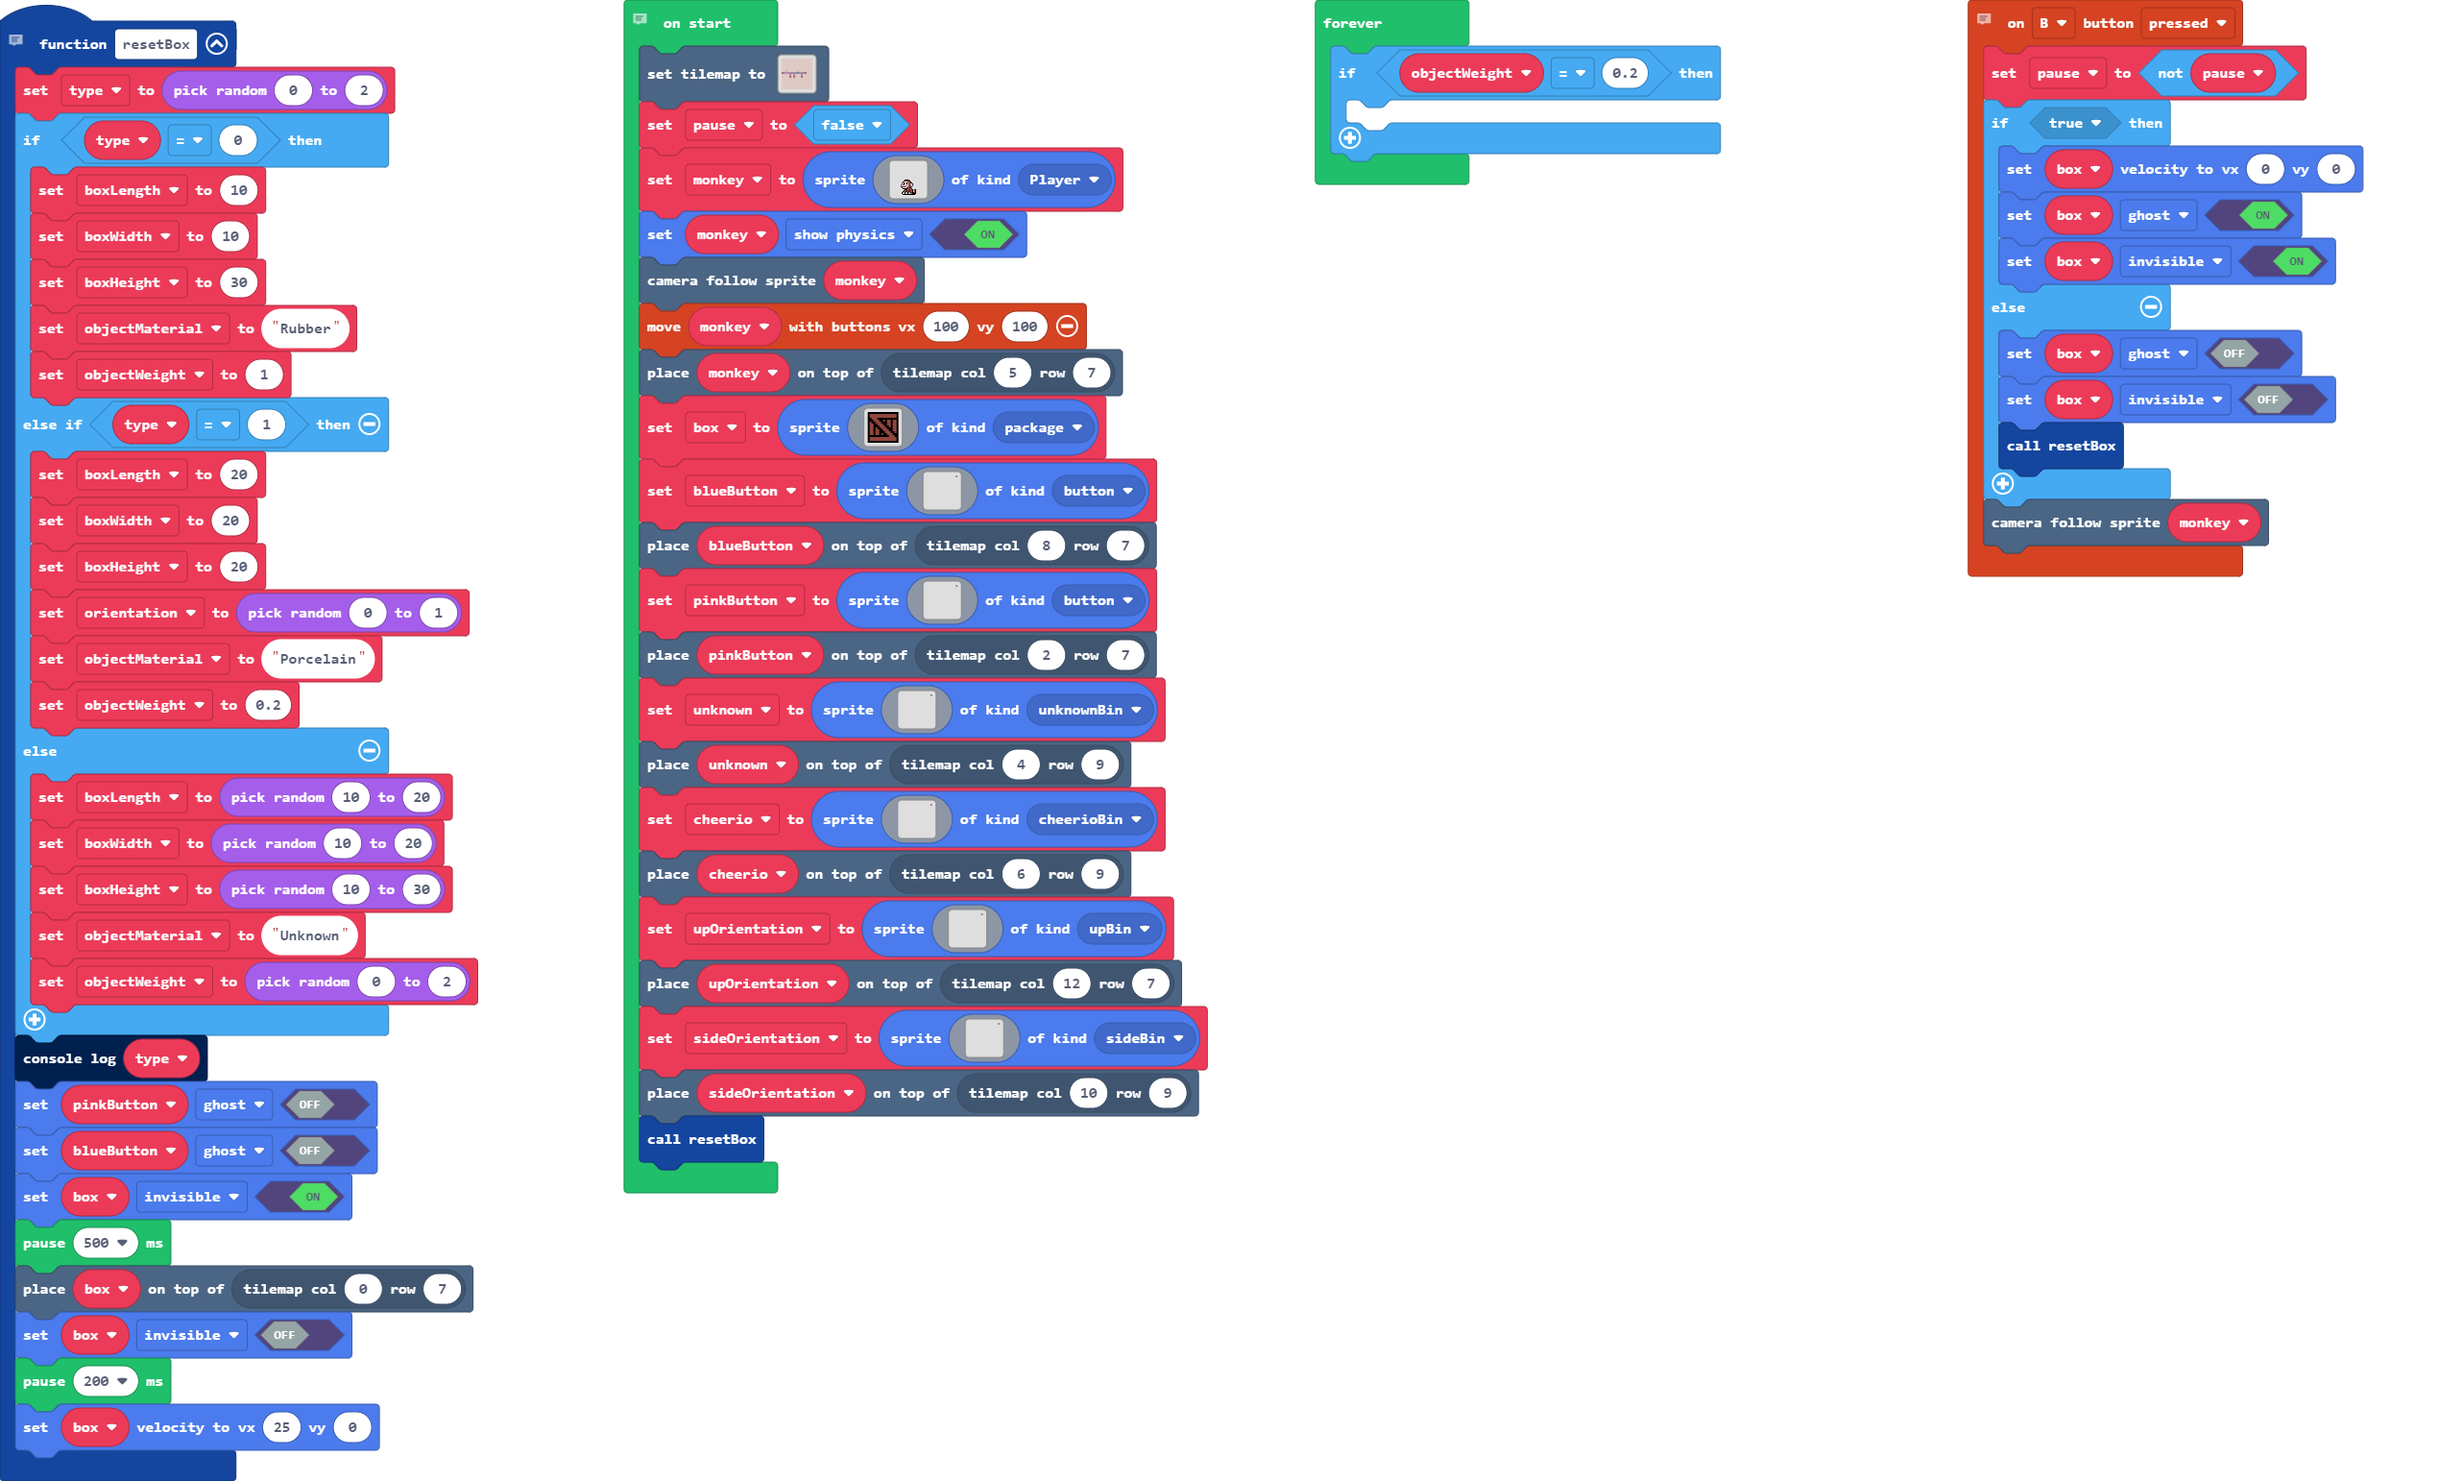
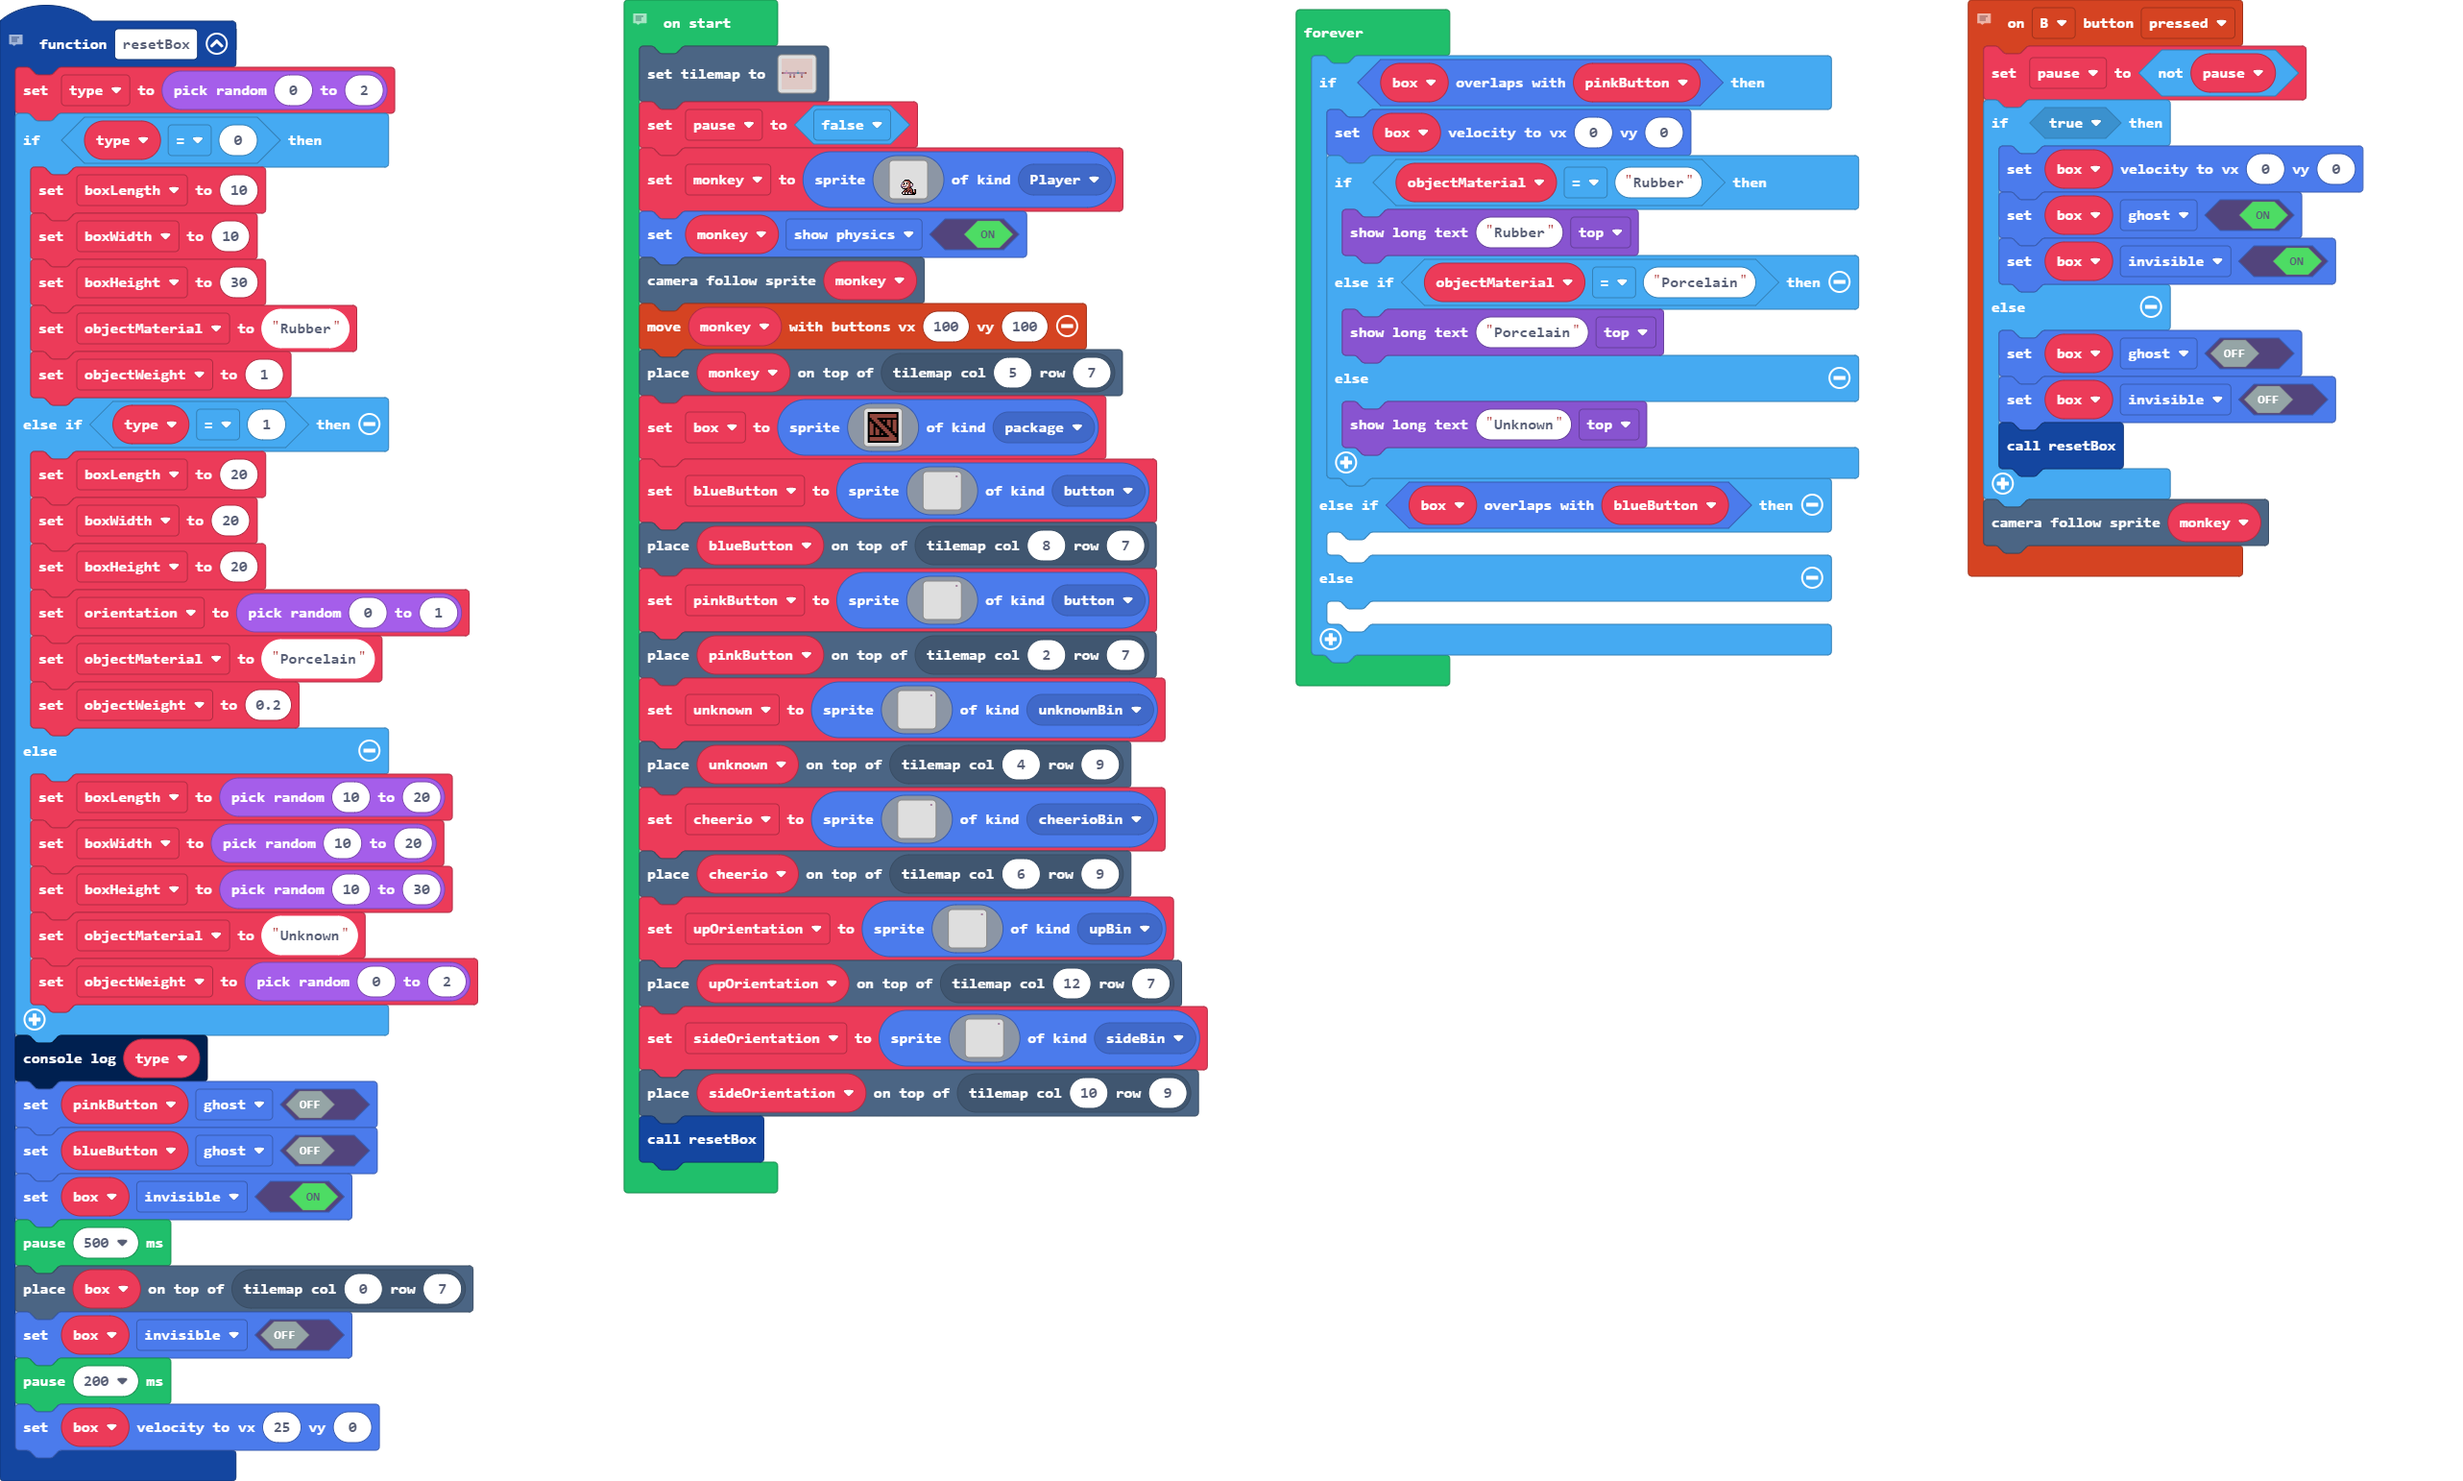
Pink Button Conditions

Changed region(s): [[0.499, 0.0, 0.7797, 0.4669]]

diff --git a/tilemap.g.ts b/tilemap.g.ts
@@ -27,6 +27,60 @@ namespace myTiles {
 . . . . . . . . . . . . . . . . 
 . . . . . . . . . . . . . . . . 
 `, [myTiles.transparency16,sprites.vehicle.roadHorizontal,sprites.vehicle.roadVertical,sprites.dungeon.chestClosed,sprites.dungeon.floorLight2,sprites.dungeon.buttonPink,sprites.dungeon.buttonTeal,myTiles.tile1,sprites.dungeon.chestOpen,myTiles.tile2], TileScale.Sixteen)
+            case "level_0": return tiles.createTilemap(hex`1000100004040404040404040404040404040404040404040404040404040404040404040404040404040404040404040404040404040404040404040404040404040404040404040404040404040404040404040404040404040404040404040404040404040704040404040704040404040404080105010901090106010901030404040404040402040204040402040404040404040404030403040404030404040404040404040404040404040404040404040404040404040404040404040404040404040404040404040404040404040404040404040404040404040404040404040404040404040404040404040404040404040404040404040404040404040404`, img`
+. . . . . . . . . . . . . . . . 
+. . . . . . . . . . . . . . . . 
+. . . . . . . . . . . . . . . . 
+. . . . . . . . . . . . . . . . 
+. . . . . . . . . . . . . . . . 
+. . . . . . . . . . . . . . . . 
+. . . . . . . . . . . . . . . . 
+. . . . . . . . . . . . . . . . 
+. . . . . . . . . . . . . . . . 
+. . . . . . . . . . . . . . . . 
+. . . . . . . . . . . . . . . . 
+. . . . . . . . . . . . . . . . 
+. . . . . . . . . . . . . . . . 
+. . . . . . . . . . . . . . . . 
+. . . . . . . . . . . . . . . . 
+. . . . . . . . . . . . . . . . 
+`, [myTiles.transparency16,sprites.vehicle.roadHorizontal,sprites.vehicle.roadVertical,sprites.dungeon.chestClosed,sprites.dungeon.floorLight2,sprites.dungeon.buttonPink,sprites.dungeon.buttonTeal,myTiles.tile1,sprites.dungeon.chestOpen,myTiles.tile2], TileScale.Sixteen)
+            case "level_1": return tiles.createTilemap(hex`1000100004040404040404040404040404040404040404040404040404040404040404040404040404040404040404040404040404040404040404040404040404040404040404040404040404040404040404040404040404040404040404040404040404040704040404040704040404040404080105010901090106010901030404040404040402040204040402040404040404040404030403040404030404040404040404040404040404040404040404040404040404040404040404040404040404040404040404040404040404040404040404040404040404040404040404040404040404040404040404040404040404040404040404040404040404040404`, img`
+. . . . . . . . . . . . . . . . 
+. . . . . . . . . . . . . . . . 
+. . . . . . . . . . . . . . . . 
+. . . . . . . . . . . . . . . . 
+. . . . . . . . . . . . . . . . 
+. . . . . . . . . . . . . . . . 
+. . . . . . . . . . . . . . . . 
+. . . . . . . . . . . . . . . . 
+. . . . . . . . . . . . . . . . 
+. . . . . . . . . . . . . . . . 
+. . . . . . . . . . . . . . . . 
+. . . . . . . . . . . . . . . . 
+. . . . . . . . . . . . . . . . 
+. . . . . . . . . . . . . . . . 
+. . . . . . . . . . . . . . . . 
+. . . . . . . . . . . . . . . . 
+`, [myTiles.transparency16,sprites.vehicle.roadHorizontal,sprites.vehicle.roadVertical,sprites.dungeon.chestClosed,sprites.dungeon.floorLight2,sprites.dungeon.buttonPink,sprites.dungeon.buttonTeal,myTiles.tile1,sprites.dungeon.chestOpen,myTiles.tile2], TileScale.Sixteen)
+            case "level_2": return tiles.createTilemap(hex`1000100000000000000000000000000000000000000000000000000000000000000000000000000000000000000000000000000000000000000000000000000000000000000000000000000000000000000000000000000000000000000000000000000000000000000000000000000000000000000000000000000000000000000000000000000000000000000000000000000000000000000000000000000000000000000000000000000000000000000000000000000000000000000000000000000000000000000000000000000000000000000000000000000000000000000000000000000000000000000000000000000000000000000000000000000000000000`, img`
+. . . . . . . . . . . . . . . . 
+. . . . . . . . . . . . . . . . 
+. . . . . . . . . . . . . . . . 
+. . . . . . . . . . . . . . . . 
+. . . . . . . . . . . . . . . . 
+. . . . . . . . . . . . . . . . 
+. . . . . . . . . . . . . . . . 
+. . . . . . . . . . . . . . . . 
+. . . . . . . . . . . . . . . . 
+. . . . . . . . . . . . . . . . 
+. . . . . . . . . . . . . . . . 
+. . . . . . . . . . . . . . . . 
+. . . . . . . . . . . . . . . . 
+. . . . . . . . . . . . . . . . 
+. . . . . . . . . . . . . . . . 
+. . . . . . . . . . . . . . . . 
+`, [myTiles.transparency16], TileScale.Sixteen)
         }
         return null;
     })

diff --git a/main.ts b/main.ts
@@ -259,7 +259,18 @@ let sideOrientation = sprites.create(img`
 tiles.placeOnTile(sideOrientation, tiles.getTileLocation(10, 9))
 resetBox()
 forever(function () {
-    if (objectWeight == 0.2) {
+    if (box.overlapsWith(pinkButton)) {
+        box.setVelocity(0, 0)
+        if (objectMaterial == "Rubber") {
+            game.showLongText("Rubber", DialogLayout.Top)
+        } else if (objectMaterial == "Porcelain") {
+            game.showLongText("Porcelain", DialogLayout.Top)
+        } else {
+            game.showLongText("Unknown", DialogLayout.Top)
+        }
+    } else if (box.overlapsWith(blueButton)) {
+    	
+    } else {
     	
     }
 })
